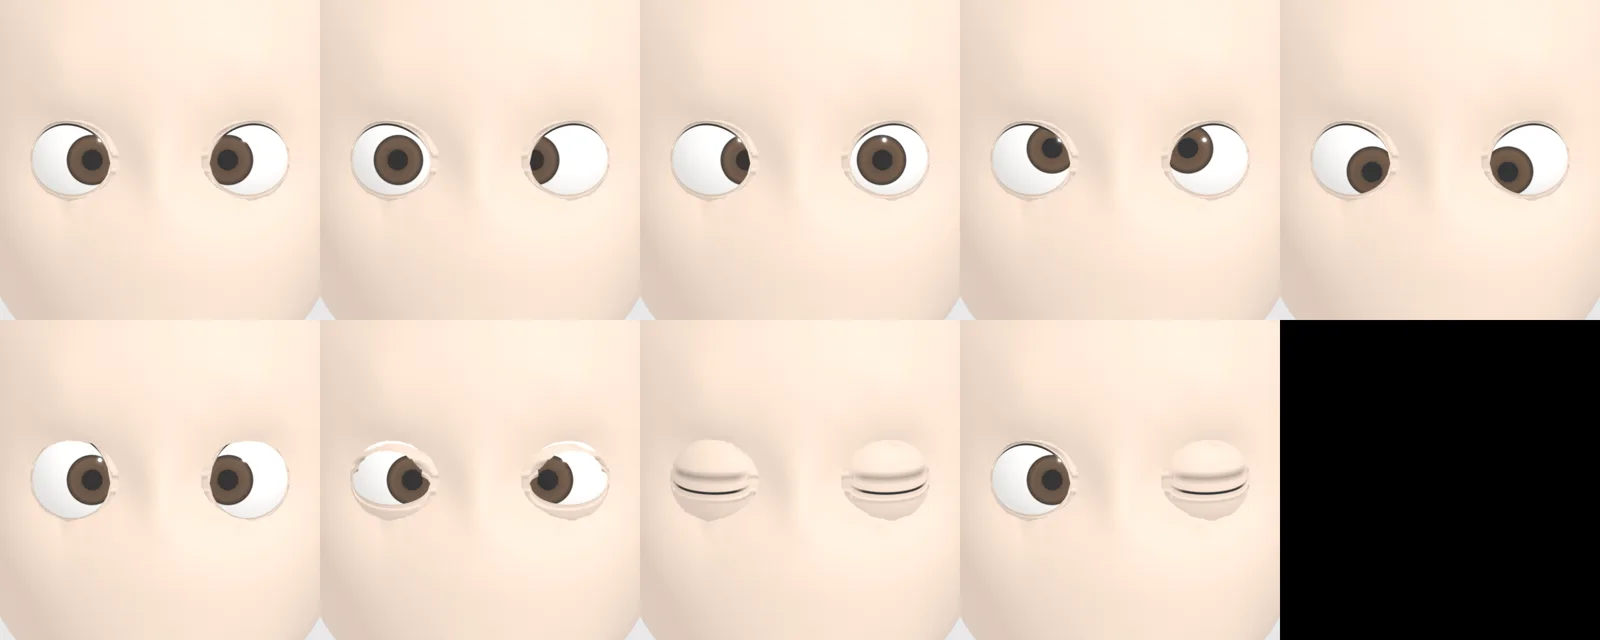
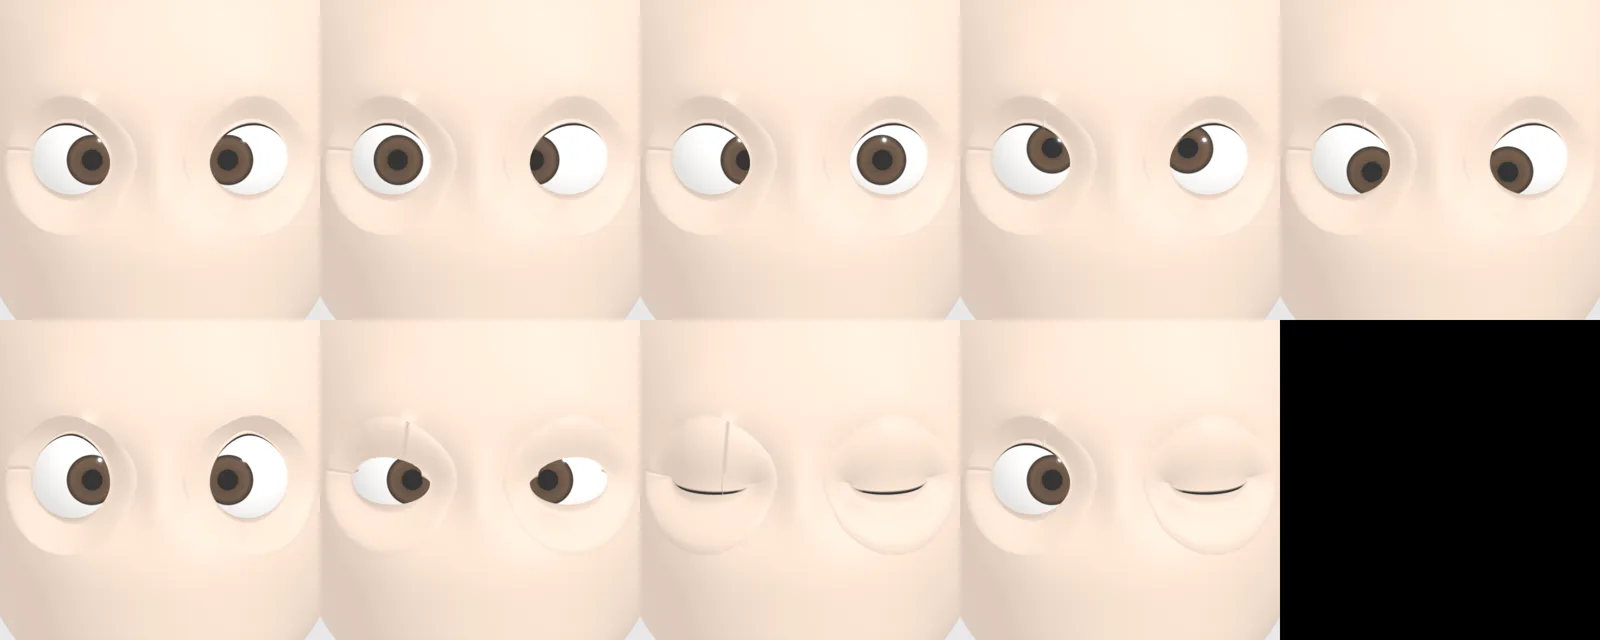
feat(nam-003): khoét lỗ da quanh mắt và may liền mí vào mép lỗ (hết viền sần, hết hở khóe)
- khoét lặp tới khi mép lỗ là một vòng đơn, kéo mép về elip trên da gốc
- mí dựng theo cột, hàng cuối trùng đỉnh mép da; khoảng chừa nét mi về 0 ở khóe
- bỏ đẩy da, bỏ subsurf; kiểm nhắm kín bằng khoảng cách điểm–đường gấp khúc

diff --git a/assets/nhan-vat-3d/nam-003/mat3d_nam003.py b/assets/nhan-vat-3d/nam-003/mat3d_nam003.py
@@ -192,22 +192,118 @@ def tao_mat(sc, arm, body, moc, p):
         tren_fn = lambda u: _mep(u, U, V, tan_ng, side, True)
         duoi_fn = lambda u: _mep(u, U, V, tan_ng, side, False)
         dong_fn = lambda u: duoi_fn(u) + DONG * (tren_fn(u) - duoi_fn(u))
-        for tren, fn, ten in ((True, tren_fn, 'MiTren'), (False, duoi_fn, 'MiDuoi')):
-            co, fa, vien, ts, sa = _luoi_mi(C, Rm, U, V, tan_ng, side, tren, fn, p)
-            ob = _tao_mesh(f'{ten}.{sfx}', _dan(_xoay(co, C, M), C, sa, bvh), fa, m_mi, sc)
+        tren_ch, duoi_ch = _khoet(body, C, M, U, V, bvh)
+        for tren, fn, ten, ch in ((True, tren_fn, 'MiTren', tren_ch), (False, duoi_fn, 'MiDuoi', duoi_ch)):
+            co, fa, vien = _mi_may(ch, C, M, Rm, U, side, tren, fn, p)
+            ob = _tao_mesh(f'{ten}.{sfx}', co, fa, m_mi, sc)
             at = ob.data.attributes.new('vien', 'FLOAT', 'POINT'); at.data.foreach_set('value', vien)
             ob.shape_key_add(name='Basis')
             for kn, f2 in (('nham', dong_fn), ('mo_to', (lambda u: _mep(u, U, V * 1.35, tan_ng, side, True)) if tren else (lambda u: _mep(u, U, V * 1.12, tan_ng, side, False)))):
-                co2, _, _, _, sa2 = _luoi_mi(C, Rm, U, V, tan_ng, side, tren, f2, p)
-                k = ob.shape_key_add(name=kn); k.data.foreach_set('co', _dan(_xoay(co2, C, M), C, sa2, bvh).ravel())
+                co2, _, _ = _mi_may(ch, C, M, Rm, U, side, tren, f2, p)
+                k = ob.shape_key_add(name=kn); k.data.foreach_set('co', co2.ravel())
             kb = ob.data.shape_keys.key_blocks
             rieng = 'chop_trai' if side == 1 else 'chop_phai'
             noi_driver(kb['nham'], arm, ['chop_mat', rieng], f'min(1, max(chop_mat, {rieng}))')
             noi_driver(kb['mo_to'], arm, ['mo_to', 'chop_mat', rieng], f'mo_to * (1 - min(1, max(chop_mat, {rieng})))')
             _bone_parent(ob, arm); objs.append(ob)
-        n = 0 if os.environ.get('KHONG_DAY') else _day_da(body, C, Rm, U, V, M, side)
-        print(f'  mắt {sfx}: R={R * 1000:.1f} mm, mở {2 * a * 1000:.0f}×{2 * b * 1000:.0f} mm, đẩy {n} đỉnh da')
+        print(f'  mắt {sfx}: R={R * 1000:.1f} mm, mở {2 * a * 1000:.0f}×{2 * b * 1000:.0f} mm, mép lỗ {len(tren_ch) + len(duoi_ch) - 2} đỉnh')
     return objs
+
+
+SC = 1.30        # lỗ khoét: elip góc lớn hơn khe mắt 30 % (đủ chỗ cho mí)
+CHIA = 3         # mỗi đoạn mép lỗ chia 3 cột mí (mép da thẳng giữa hai đỉnh nên vẫn khít)
+
+
+def _uv(P, C, M):
+    """Tọa độ góc (u ngang, v dọc) và bán kính của điểm P (N×3) trong khung mắt."""
+    rel = (np.asarray(M).T @ (np.atleast_2d(P) - C).T).T; d = np.linalg.norm(rel, axis=1)
+    return np.arctan2(rel[:, 0], -rel[:, 1]), np.arcsin(np.clip(rel[:, 2] / d, -1, 1)), d
+
+
+def _khoet(body, C, M, U, V, bvh):
+    """Khoét lỗ elip (góc SC×U, SC×V) trên Nam_Body, kéo đỉnh mép lỗ về đúng elip trên mặt da gốc.
+    Trả hai chuỗi điểm mép (trên, dưới), cùng đi từ khóe u<0 sang khóe u>0, chung hai đầu."""
+    import bmesh
+    bm = bmesh.new(); bm.from_mesh(body.data); bm.verts.ensure_lookup_table()
+    co = np.array([v.co for v in bm.verts]); u, v, d = _uv(co, C, M); R_GAN = 0.06
+    sa = np.sqrt((u / U) ** 2 + (v / V) ** 2); truoc = (np.abs(u) < 1.4) & (d < np.linalg.norm(C - co, axis=1).min() + 0.04)
+    xoa = [f for f in bm.faces if np.mean([sa[x.index] for x in f.verts]) < SC and all(truoc[x.index] for x in f.verts)]
+    bmesh.ops.delete(bm, geom=xoa, context='FACES_ONLY')
+    bmesh.ops.delete(bm, geom=[x for x in bm.verts if not x.link_faces], context='VERTS')
+    bm.verts.ensure_lookup_table(); bm.edges.ensure_lookup_table()
+    # vòng mép lỗ: cạnh biên có đỉnh gần mắt
+    def gan(x):
+        uu, vv, dd = _uv(np.array(x.co), C, M); return abs(uu[0]) < 1.4 and dd[0] < R_GAN and x.co.x * C[0] > 0 and math.hypot(uu[0] / U, vv[0] / V) < SC * 1.8
+    for lan in range(8):   # khoét lặp: nuốt lỗ phụ/đỉnh chạc ba (lỗ chỉ dính lỗ chính qua một đỉnh) cho tới khi còn một vòng đơn
+        bm.verts.ensure_lookup_table(); bm.edges.ensure_lookup_table()
+        bien = [e for e in bm.edges if e.is_boundary and all(gan(x) for x in e.verts)]
+        ke = {}
+        for e in bien:
+            a_, b_ = e.verts; ke.setdefault(a_, []).append(b_); ke.setdefault(b_, []).append(a_)
+        vongs = []; con = set(ke)
+        while con:
+            v0 = next(iter(con)); vg = [v0]; tv = None
+            while True:
+                nx = [x for x in ke[vg[-1]] if x is not tv and x in con]
+                if not nx or nx[0] is v0 or nx[0] in vg: break
+                tv = vg[-1]; vg.append(nx[0])
+            con -= set(vg); vongs.append(vg)
+        vongs.sort(key=len, reverse=True); vong = vongs[0]
+        xau = {x for x in ke if len(ke[x]) != 2} | {x for vg in vongs[1:] for x in vg}
+        if not xau and len(vong) == len(ke): break
+        bmesh.ops.delete(bm, geom=list({f for x in xau for f in x.link_faces}), context='FACES_ONLY')
+        bmesh.ops.delete(bm, geom=[x for x in bm.verts if not x.link_faces], context='VERTS')
+    assert not xau and len(vong) == len(ke), f'mép lỗ chưa thành một vòng đơn sau {lan + 1} lần ({[len(x) for x in vongs]})'
+    # kéo về elip góc SC, dán lên mặt da gốc
+    P = np.array([x.co for x in vong]); u, v, _ = _uv(P, C, M)
+    phi = np.arctan2(v / V, u / U); Mi = np.asarray(M)
+    for x, ph in zip(vong, phi):
+        uu, vv = SC * U * math.cos(ph), SC * V * math.sin(ph)
+        dr = Vector(Mi @ np.array([math.sin(uu) * math.cos(vv), -math.cos(uu) * math.cos(vv), math.sin(vv)]))
+        hit = bvh.ray_cast(Vector(C), dr, 0.08)
+        if hit[0] is not None: x.co = hit[0]
+    P = np.array([x.co for x in vong]); n = len(P)
+    bm.to_mesh(body.data); bm.free(); body.data.update()
+    # tách hai chuỗi theo góc phi; chuỗi trên đi từ phi=π (u<0) qua π/2 tới 0
+    i0 = int(np.argmin(np.abs(np.angle(np.exp(1j * phi))))); i1 = int(np.argmin(np.abs(np.angle(np.exp(1j * (phi - np.pi))))))
+    def di(a_, b_, buoc):
+        out = [a_]
+        while out[-1] != b_: out.append((out[-1] + buoc) % n)
+        return out
+    huong = 1 if np.sin(phi[(i1 + 1) % n]) > 0 else -1          # từ i1 đi theo huong là phía trên
+    tren = P[di(i1, i0, huong)]; duoi = P[di(i1, i0, -huong)]
+    return tren, duoi
+
+
+def _mi_may(ch, C, M, Rm, U, side, tren, edge_fn, p):
+    """Vỏ mí may vào mép lỗ: cột k chạy từ mép khe mắt (trên mặt cầu Rm) tới điểm mép lỗ Q_k (hàng cuối = Q_k)."""
+    Q = [ch[0]]
+    for a_, b_ in zip(ch[:-1], ch[1:]):
+        Q += [a_ + (b_ - a_) * (s / CHIA) for s in range(1, CHIA + 1)]
+    Q = np.array(Q); uq, vq, rq = _uv(Q, C, M)
+    ue = -U + 2 * U * (uq - uq[0]) / (uq[-1] - uq[0])          # hai đầu chuỗi = đúng hai khóe khe mắt (e=0)
+    e = edge_fn(ue); sg = 1 if tren else -1; w0 = p['mat_vien'] / Rm * np.sqrt(np.clip(1 - (ue / U) ** 2, 0, 1))   # khoảng chừa nét mi về 0 ở khóe (không hở hình thoi)
+    ts = [0.0, 0.02, 0.035, 0.08] + list(np.linspace(0.16, 1.0, 9))
+    Mi = np.asarray(M); rows = []; vien = []
+    for t in ts:
+        if t < 0.1:
+            off = {0.0: 0.0, 0.02: 0.45 * w0, 0.035: 0.80 * w0, 0.08: 1.6 * w0}[t]
+            uu, vv, rr = ue, e + sg * off, np.full_like(ue, Rm)
+        else:
+            k = (t - 0.08) / 0.92; g = k * k * (3 - 2 * k)
+            uu = ue + (uq - ue) * k; vv = (e + sg * 1.6 * w0) + (vq - e - sg * 1.6 * w0) * k; rr = Rm + (rq - Rm) * g
+        dr = np.stack([np.sin(uu) * np.cos(vv), -np.cos(uu) * np.cos(vv), np.sin(vv)], -1) @ Mi.T
+        pts = C + rr[:, None] * dr
+        if t == 1.0: pts = Q                                  # khít tuyệt đối với mép da
+        rows.append(pts)
+        band = (1.0 if t < 0.03 else 0.0) if tren else (0.12 if t < 0.01 else 0.0)
+        vien.append(band * np.clip((1 - np.abs(ue) / U) / 0.30, 0, 1))
+    nu = len(Q); co = np.concatenate(rows)
+    faces = [(i * nu + j, i * nu + j + 1, (i + 1) * nu + j + 1, (i + 1) * nu + j) for i in range(len(ts) - 1) for j in range(nu - 1)]
+    # hướng mặt ra ngoài (pháp tuyến cùng chiều C→điểm)
+    f0 = faces[len(faces) // 2]; a_, b_, c_ = co[f0[0]], co[f0[1]], co[f0[2]]
+    if np.dot(np.cross(b_ - a_, c_ - a_), a_ - C) < 0: faces = [f[::-1] for f in faces]
+    return co, faces, np.concatenate(vien)
 
 
 # ---------------------------------------------------------------- kiểm
@@ -222,8 +318,8 @@ def kiem_mat(objs, arm, body):
     pb = arm.pose.bones['Head']; vl = bpy.context.view_layer
     pb['chop_mat'] = 1.0; tinh(arm)
     for s in 'LR':
-        t = _eval_co(bpy.data.objects[f'MiTren.{s}'])[:NU]; d = _eval_co(bpy.data.objects[f'MiDuoi.{s}'])[:NU]
-        gap = np.linalg.norm(t - d, axis=1).max(); assert gap < 0.0005, f'nhắm {s}: khe {gap * 1000:.2f} mm'
+        T = _eval_co(bpy.data.objects[f'MiTren.{s}']); D = _eval_co(bpy.data.objects[f'MiDuoi.{s}']); t = T[:len(T) // 13]; d = D[:len(D) // 13]
+        gap = max(_dpl(q, d) for q in t); assert gap < 0.0005, f'nhắm {s}: khe {gap * 1000:.2f} mm'
     pb['chop_mat'] = 0.0; tinh(arm)
     nc = bpy.data.objects['NhanCau.L']; R = nc.dimensions[0] / 2 / max(nc.matrix_world.to_scale())
     truoc = (nc.matrix_world @ Vector((0, -R, 0))).copy()
@@ -279,3 +375,9 @@ def _dan(co, C, sa, bvh, a0=1.0, a1=1.45, noi=0.0003):
         r1 = (hit[0] - Vector(C)).length + noi
         out[i] = C + np.array(d) * (r0 + (r1 - r0) * b[i])
     return out
+
+
+def _dpl(q, L):
+    """Khoảng cách từ điểm q tới đường gấp khúc L (N×3)."""
+    a = L[:-1]; ab = L[1:] - a; t = np.clip(((q - a) * ab).sum(1) / np.maximum((ab * ab).sum(1), 1e-12), 0, 1)
+    return float(np.linalg.norm(a + ab * t[:, None] - q, axis=1).min())

diff --git a/assets/nhan-vat-3d/nam-003/rig_mat_nam003.py b/assets/nhan-vat-3d/nam-003/rig_mat_nam003.py
@@ -169,7 +169,7 @@ def main():
     if a.kiem: kiem_moc(m)
     if a.anh: anh_mat(sc, os.path.join(a.anh, 'bop_sau'), z=m['mui'][2] + 0.01)
     import mat3d_nam003 as M3
-    M3.to_da(body, p); M3.muot_da(body)
+    M3.to_da(body, p)
     mat = M3.tao_mat(sc, arm, body, m, p)
     M3.lam_moi_driver()
     if a.kiem: M3.kiem_mat(mat, arm, body)
